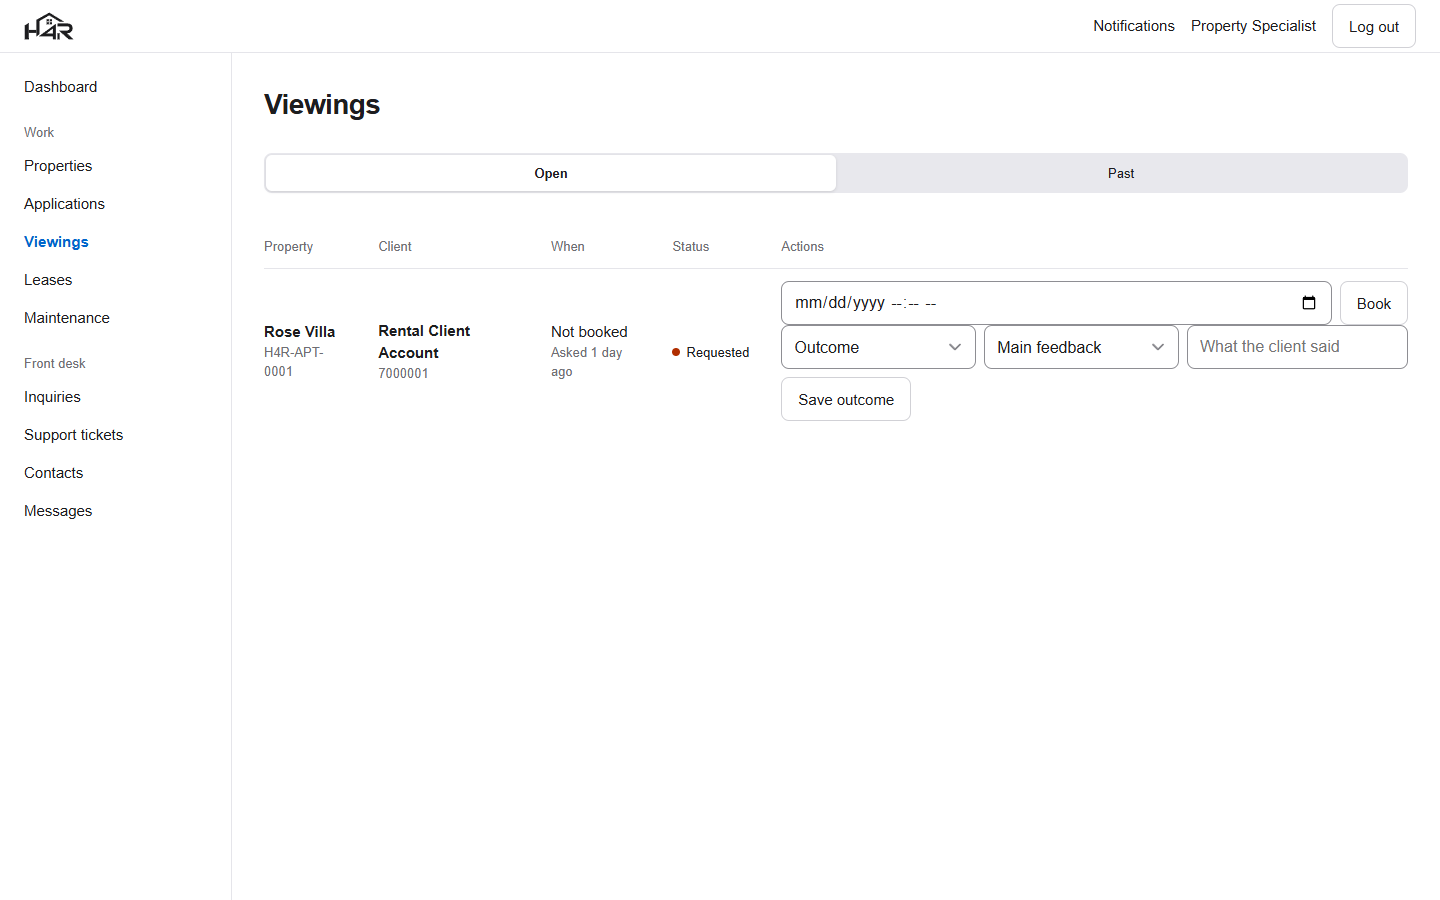
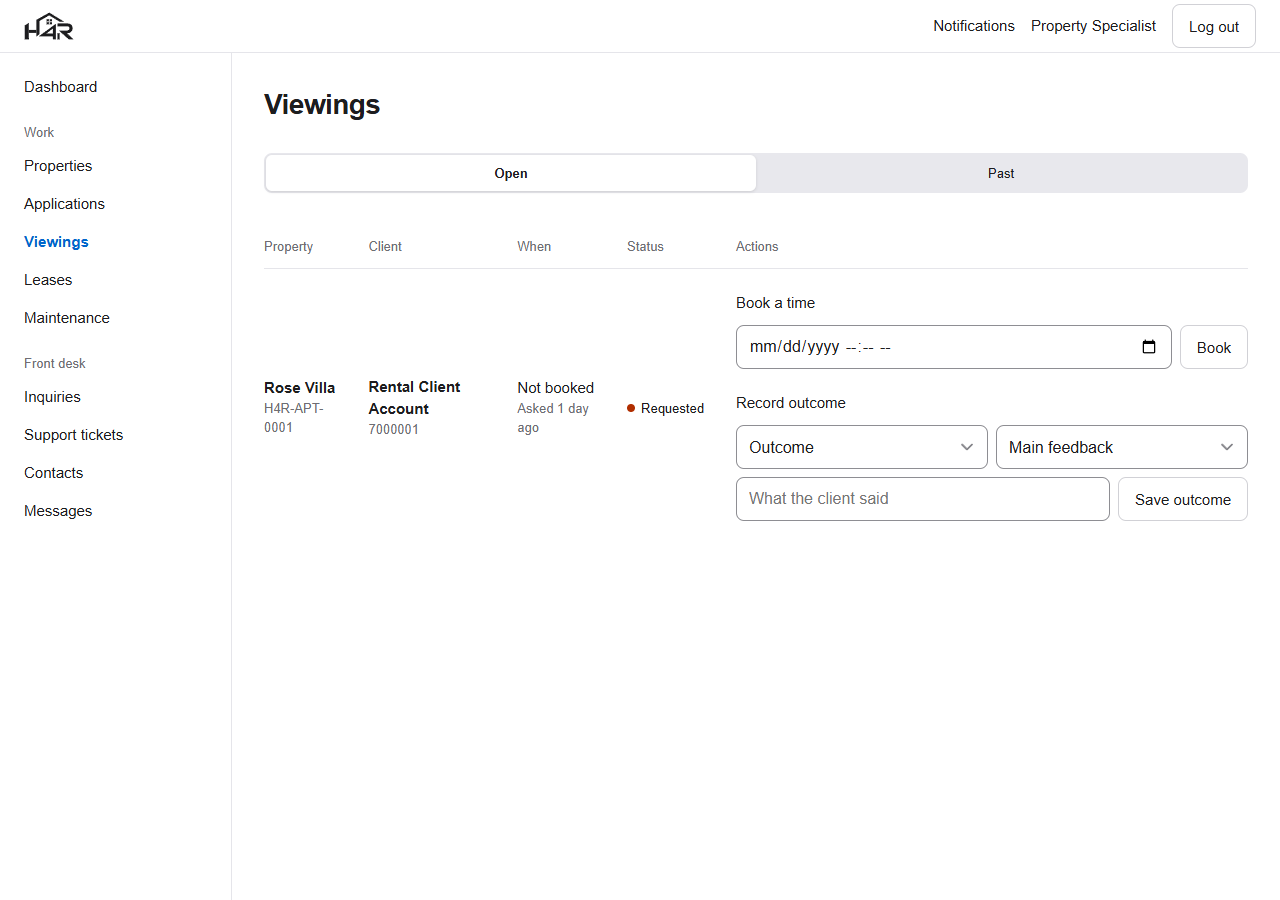
Fold row forms and the inquiry form until they are needed
Inquiries, Applications and Viewings rows now show the record and a link (Route or close, Decide, Book a time, Record outcome); the form opens in place. The Log an inquiry form sits behind a button above the list instead of beside it, and reopens by itself when it comes back with errors. Uses the browser's own details element, no script.

diff --git a/public/css/h4r.css b/public/css/h4r.css
@@ -222,7 +222,13 @@ textarea.in{padding:var(--s-3);min-height:88px;resize:vertical;line-height:1.4}
 /* small forms inside table rows */
 .inline{display:flex;flex-wrap:wrap;gap:var(--s-2);align-items:center}
 .inline .in{width:auto;flex:1 1 140px}
+/* an action that stays folded until it is needed: <details> with a <summary> that reads as a link.
+   In a table row it holds the row's form; .add is the same thing with a button, for a page's "new record" form. */
 details summary{min-height:44px;display:inline-flex;align-items:center;color:var(--link);font-weight:500;cursor:pointer}
+details[open]>summary:not(.btn){color:var(--label)}
+details>form{margin-bottom:var(--s-3)}
+.add>summary{display:inline-flex}
+.add[open]>summary{margin-bottom:var(--s-5)}
 
 /* share of a total, e.g. rejection reasons */
 .meter{height:8px;border-radius:var(--r-full);background:var(--fill-2);overflow:hidden}

diff --git a/resources/views/staff/inquiries.blade.php b/resources/views/staff/inquiries.blade.php
@@ -10,29 +10,44 @@
         </div>
     </div>
 
-    <div class="split">
-        <section class="card flush wide">
-            <div class="sx">
-                <table class="tbl">
-                    <thead>
+    {{-- The form stays closed until it is needed; it opens by itself when it comes back with errors. --}}
+    <details class="add" @if ($errors->any()) open @endif>
+        <summary class="btn btn-p">Log an inquiry</summary>
+        <form method="POST" action="{{ route('staff.inquiries.store') }}" class="card limit">
+            @csrf
+            <x-select name="channel" label="How they got in touch" :options="['walk_in' => 'Walk-in', 'phone' => 'Phone', 'email' => 'Email']" required />
+            <x-field name="contact_name" label="Name" maxlength="120" required />
+            <x-field name="contact_phone" label="Phone (optional)" maxlength="20" />
+            <x-field name="subject" label="Subject" maxlength="150" required />
+            <x-textarea name="details" label="Notes (optional)" maxlength="2000" />
+            <button type="submit" class="btn btn-p">Log inquiry</button>
+        </form>
+    </details>
+
+    <section class="card flush">
+        <div class="sx">
+            <table class="tbl">
+                <thead>
+                    <tr>
+                        <th scope="col">Inquiry</th>
+                        <th scope="col">From</th>
+                        <th scope="col">Status</th>
+                        <th scope="col">Actions</th>
+                    </tr>
+                </thead>
+                <tbody>
+                    @forelse ($inquiries as $inquiry)
                         <tr>
-                            <th scope="col">Inquiry</th>
-                            <th scope="col">From</th>
-                            <th scope="col">Status</th>
-                            <th scope="col">Actions</th>
-                        </tr>
-                    </thead>
-                    <tbody>
-                        @forelse ($inquiries as $inquiry)
-                            <tr>
-                                <td><b>{{ $inquiry->subject }}</b><small>{{ $inquiry->details }}</small></td>
-                                <td>
-                                    {{ $inquiry->contact_name }}
-                                    <small>{{ $inquiry->contact_phone }} · {{ str_replace('_', ' ', $inquiry->channel) }} · {{ $inquiry->created_at->diffForHumans() }}</small>
-                                </td>
-                                <td><x-pill :status="$inquiry->status" /></td>
-                                <td>
-                                    @if ($inquiry->status === 'open')
+                            <td><b>{{ $inquiry->subject }}</b><small>{{ $inquiry->details }}</small></td>
+                            <td>
+                                {{ $inquiry->contact_name }}
+                                <small>{{ $inquiry->contact_phone }} · {{ str_replace('_', ' ', $inquiry->channel) }} · {{ $inquiry->created_at->diffForHumans() }}</small>
+                            </td>
+                            <td><x-pill :status="$inquiry->status" /></td>
+                            <td>
+                                @if ($inquiry->status === 'open')
+                                    <details>
+                                        <summary>Route or close</summary>
                                         <form method="POST" action="{{ route('staff.inquiries.route', $inquiry) }}" class="inline">
                                             @csrf
                                             <select name="assigned_to_user_id" class="in" aria-label="Specialist" required>
@@ -48,30 +63,19 @@
                                             @method('PATCH')
                                             <button type="submit" class="act">Close without a ticket</button>
                                         </form>
-                                    @endif
-                                </td>
-                            </tr>
-                        @empty
-                            <tr>
-                                <td colspan="4" class="empty">No inquiries logged.</td>
-                            </tr>
-                        @endforelse
-                    </tbody>
-                </table>
-            </div>
-        </section>
-
-        <form method="POST" action="{{ route('staff.inquiries.store') }}" class="card narrow">
-            @csrf
-            <h2 class="h">Log an inquiry</h2>
-            <x-select name="channel" label="How they got in touch" :options="['walk_in' => 'Walk-in', 'phone' => 'Phone', 'email' => 'Email']" required />
-            <x-field name="contact_name" label="Name" maxlength="120" required />
-            <x-field name="contact_phone" label="Phone (optional)" maxlength="20" />
-            <x-field name="subject" label="Subject" maxlength="150" required />
-            <x-textarea name="details" label="Notes (optional)" maxlength="2000" />
-            <button type="submit" class="btn btn-p">Log inquiry</button>
-        </form>
-    </div>
+                                    </details>
+                                @endif
+                            </td>
+                        </tr>
+                    @empty
+                        <tr>
+                            <td colspan="4" class="empty">No inquiries logged.</td>
+                        </tr>
+                    @endforelse
+                </tbody>
+            </table>
+        </div>
+    </section>
 
     {{ $inquiries->links('pagination::bootstrap-4') }}
 @endsection

diff --git a/resources/views/staff/viewings.blade.php b/resources/views/staff/viewings.blade.php
@@ -49,33 +49,39 @@
                             <td><x-pill :status="$viewing->status" /></td>
                             <td>
                                 @if ($open)
-                                    <form method="POST" action="{{ route('staff.viewings.schedule', $viewing) }}" class="inline">
-                                        @csrf
-                                        @method('PATCH')
-                                        <input type="datetime-local" name="scheduled_for" class="in" aria-label="Date and time"
-                                            value="{{ $viewing->scheduled_for?->format('Y-m-d\TH:i') }}" required>
-                                        <button type="submit" class="btn btn-s">{{ $viewing->scheduled_for ? 'Rebook' : 'Book' }}</button>
-                                    </form>
-                                    @if ($logs)
-                                        <form method="POST" action="{{ route('staff.viewings.log', $viewing) }}" class="inline">
+                                    <details>
+                                        <summary>{{ $viewing->scheduled_for ? 'Rebook' : 'Book a time' }}</summary>
+                                        <form method="POST" action="{{ route('staff.viewings.schedule', $viewing) }}" class="inline">
                                             @csrf
                                             @method('PATCH')
-                                            <select name="status" class="in" aria-label="Outcome" required>
-                                                <option value="">Outcome</option>
-                                                <option value="completed">Completed</option>
-                                                <option value="no_show">No show</option>
-                                                <option value="declined">Declined</option>
-                                                <option value="cancelled">Cancelled</option>
-                                            </select>
-                                            <select name="feedback_category_id" class="in" aria-label="Main feedback">
-                                                <option value="">Main feedback</option>
-                                                @foreach ($categories as $id => $label)
-                                                    <option value="{{ $id }}">{{ $label }}</option>
-                                                @endforeach
-                                            </select>
-                                            <input name="staff_note" class="in" placeholder="What the client said" aria-label="Staff note" maxlength="1000">
-                                            <button type="submit" class="btn btn-n">Save outcome</button>
+                                            <input type="datetime-local" name="scheduled_for" class="in" aria-label="Date and time"
+                                                value="{{ $viewing->scheduled_for?->format('Y-m-d\TH:i') }}" required>
+                                            <button type="submit" class="btn btn-s">{{ $viewing->scheduled_for ? 'Rebook' : 'Book' }}</button>
                                         </form>
+                                    </details>
+                                    @if ($logs)
+                                        <details>
+                                            <summary>Record outcome</summary>
+                                            <form method="POST" action="{{ route('staff.viewings.log', $viewing) }}" class="inline">
+                                                @csrf
+                                                @method('PATCH')
+                                                <select name="status" class="in" aria-label="Outcome" required>
+                                                    <option value="">Outcome</option>
+                                                    <option value="completed">Completed</option>
+                                                    <option value="no_show">No show</option>
+                                                    <option value="declined">Declined</option>
+                                                    <option value="cancelled">Cancelled</option>
+                                                </select>
+                                                <select name="feedback_category_id" class="in" aria-label="Main feedback">
+                                                    <option value="">Main feedback</option>
+                                                    @foreach ($categories as $id => $label)
+                                                        <option value="{{ $id }}">{{ $label }}</option>
+                                                    @endforeach
+                                                </select>
+                                                <input name="staff_note" class="in" placeholder="What the client said" aria-label="Staff note" maxlength="1000">
+                                                <button type="submit" class="btn btn-n">Save outcome</button>
+                                            </form>
+                                        </details>
                                     @endif
                                 @else
                                     {{ $viewing->feedbackCategory?->label ?? '—' }}

diff --git a/resources/views/staff/applications.blade.php b/resources/views/staff/applications.blade.php
@@ -49,13 +49,16 @@
                             <td>{{ $application->occupants }} {{ Str::plural('person', $application->occupants) }}<small>{{ $application->employer ?? 'No employer given' }} · {{ $application->income_bracket ?? 'income not given' }}</small></td>
                             <td>
                                 @if ($application->status === 'submitted' && $decides)
-                                    <form method="POST" action="{{ route('staff.applications.decide', $application) }}" class="inline">
-                                        @csrf
-                                        @method('PATCH')
-                                        <input name="decision_note" class="in" placeholder="Reason (needed to reject)" aria-label="Reason" maxlength="1000">
-                                        <button type="submit" name="decision" value="approved" class="btn btn-s">Approve</button>
-                                        <button type="submit" name="decision" value="rejected" class="btn btn-d">Reject</button>
-                                    </form>
+                                    <details>
+                                        <summary>Decide</summary>
+                                        <form method="POST" action="{{ route('staff.applications.decide', $application) }}" class="inline">
+                                            @csrf
+                                            @method('PATCH')
+                                            <input name="decision_note" class="in" placeholder="Reason (needed to reject)" aria-label="Reason" maxlength="1000">
+                                            <button type="submit" name="decision" value="approved" class="btn btn-s">Approve</button>
+                                            <button type="submit" name="decision" value="rejected" class="btn btn-d">Reject</button>
+                                        </form>
+                                    </details>
                                 @elseif ($application->lease)
                                     <a href="{{ route('staff.leases.show', $application->lease) }}" class="act">Open lease</a>
                                 @elseif ($application->status === 'approved' && $decides)

diff --git a/docs/design.md b/docs/design.md
@@ -26,6 +26,8 @@ Every page uses one stylesheet, `public/css/h4r.css`, and three layouts. Read th
 - **One solid button per screen.** `.btn-p` is the only blue button. Every other button is white with a thin outline.
 - **Short menus.** A menu lists places to work, nothing else. Notifications and the user's name (their profile) sit in the
   top bar. A link that is only needed sometimes, like "Verify phone", shows only while it is needed.
+- **Show the record, fold the form.** A list shows records. A form that is used now and then stays folded behind a
+  link or button until someone asks for it; it is never parked beside the list.
 - **No stock components.** These make a page look machine-made, so we don't use them: a small label above a title,
   tinted pill badges, rows of boxed number tiles, shadows, gradients, and icons or emoji as decoration.
 
@@ -70,8 +72,9 @@ Rules:
 | Codes and IDs | `.mono`: the normal font with evenly spaced digits, not a typewriter font |
 | Listings and photos | `.grid` of `a.card` with an `img.photo`; `.photos` for a gallery |
 | Conversation | `.msgs` > `.msg` (add `.me` for the reader's own messages) |
-| Small form in a table row | `form.inline` with bare `.in` controls (give each an `aria-label`), and `@include('partials.errors')` once above the table |
-| Rarely used action | `<details>` with a `<summary>`, e.g. `partials/escalate` |
+| Small form in a table row | `form.inline` with bare `.in` controls (give each an `aria-label`), and `@include('partials.errors')` once above the table. One short control and a button can sit in the row; anything bigger goes inside a `<details>` |
+| Folded action | `<details>` with a `<summary>` that says what it does ("Decide", "Book a time", "Escalate to manager"). A row shows the record; its forms open when asked for |
+| "New record" form on a list page | `<details class="add">` with `<summary class="btn btn-p">`, above the table. Add `@if ($errors->any()) open @endif` so it reopens with its errors. See `staff/inquiries` |
 
 ### Blade components
 
